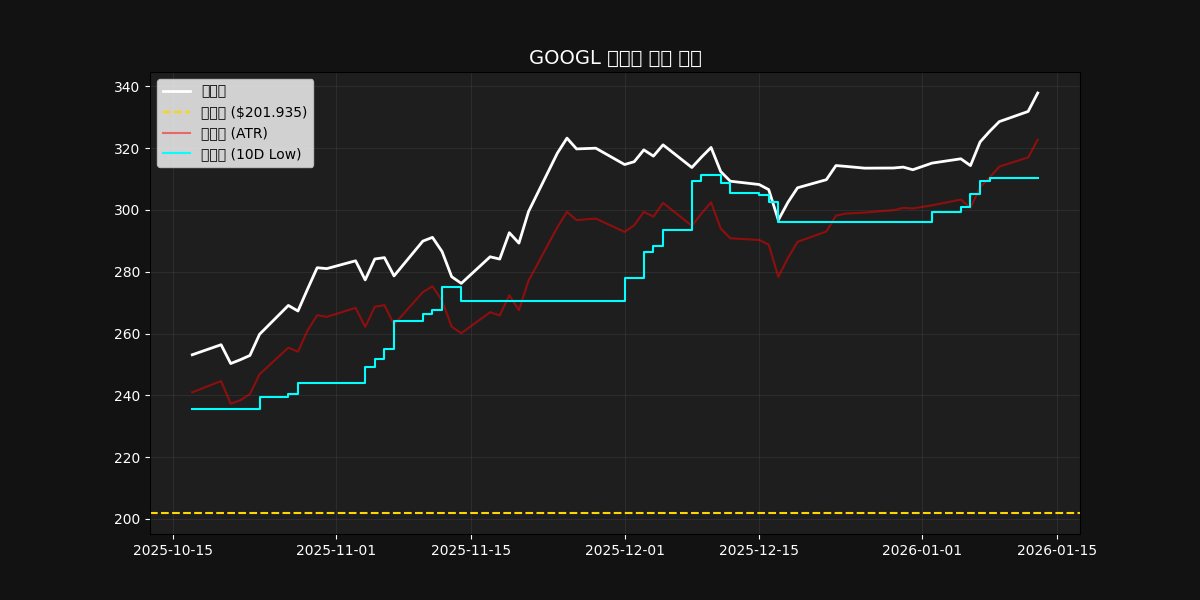
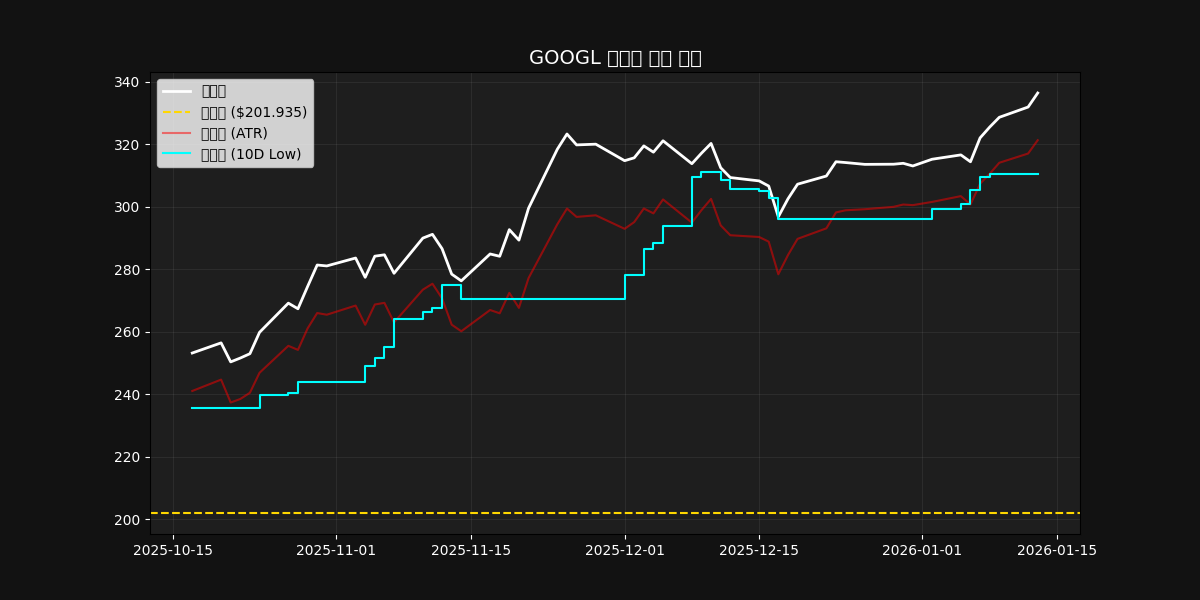
Report Update: 20260114

diff --git a/Reports/Report_20260114.html b/Reports/Report_20260114.html
@@ -8,12 +8,12 @@
         .chart-img{width:48%; margin:1%; border-radius:10px; border:2px solid #444; transition: transform 0.3s;}
         .chart-img:hover {transform: scale(1.02);}
         </style></head><body>
-        <h1>📊 기태님 개인 자산 관리 대시보드 (2026-01-14 00:20)</h1>
-        <div class="card"><h2>✅ [계좌 현황] 내 보유 종목</h2><table><tr><th>티커</th><th>매수가</th><th>현재가</th><th>수익률</th><th>손절가</th><th>익절가(10D)</th><th>상태</th></tr><tr><td><b>GOOGL</b></td><td>$201.94</td><td>$337.83</td><td style='color:#2ecc71'>+67.30%</td><td>$322.72</td><td>$310.33</td><td>보유(Keep)</td></tr><tr><td><b>IEX</b></td><td>$186.77</td><td>$186.88</td><td style='color:#2ecc71'>+0.06%</td><td>$180.24</td><td>$177.29</td><td>보유(Keep)</td></tr></table></div>
+        <h1>📊 기태님 개인 자산 관리 대시보드 (2026-01-14 00:25)</h1>
+        <div class="card"><h2>✅ [계좌 현황] 내 보유 종목</h2><table><tr><th>티커</th><th>매수가</th><th>현재가</th><th>수익률</th><th>손절가</th><th>익절가(10D)</th><th>상태</th></tr><tr><td><b>GOOGL</b></td><td>$201.94</td><td>$336.35</td><td style='color:#2ecc71'>+66.56%</td><td>$321.24</td><td>$310.33</td><td>보유(Keep)</td></tr><tr><td><b>IEX</b></td><td>$186.77</td><td>$186.75</td><td style='color:#ff4757'>-0.01%</td><td>$180.11</td><td>$177.29</td><td>보유(Keep)</td></tr></table></div>
         <div class="card"><h2>📈 [관리 차트] 수익 추적 및 익절 타이밍</h2>
             <div style="display:inline-block; width:100%; text-align:center;"><img src="../Charts/GOOGL_tracking.png" class="chart-img" style="width:90%;"></div><div style="display:inline-block; width:100%; text-align:center;"><img src="../Charts/IEX_tracking.png" class="chart-img" style="width:90%;"></div>
         </div>
-        <div class="card"><h2>🥇 [신규 추천] 오늘의 TOP 3</h2><table><tr><th>티커</th><th>점수</th><th>현재가</th><th>수량</th><th>상관성</th><th>3M수익</th></tr><tr><td>A</td><td>100</td><td>$146.91</td><td>23주</td><td>0.46</td><td>6.6%</td></tr><tr><td>ACGL</td><td>100</td><td>$92.59</td><td>50주</td><td>0.03</td><td>0.4%</td></tr><tr><td>ADM</td><td>100</td><td>$62.71</td><td>51주</td><td>0.45</td><td>2.2%</td></tr></table></div>
-        <div class="card"><h2>⚠ [분석 제외] 기존 보유 및 상관성 높은 종목</h2><table><tr><th>티커</th><th>점수</th><th>현재가</th><th>수량</th><th>상관성</th><th>3M수익</th></tr><tr><td>AAPL</td><td>100</td><td>$259.81</td><td>18주</td><td>0.81</td><td>5.0%</td></tr><tr><td>ABBV</td><td>100</td><td>$217.93</td><td>14주</td><td>0.77</td><td>-4.2%</td></tr><tr><td>ABNB</td><td>100</td><td>$136.93</td><td>26주</td><td>0.69</td><td>11.4%</td></tr><tr><td>ACN</td><td>100</td><td>$274.02</td><td>10주</td><td>0.76</td><td>12.2%</td></tr><tr><td>ADI</td><td>100</td><td>$297.96</td><td>11주</td><td>0.81</td><td>27.0%</td></tr></table></div>
+        <div class="card"><h2>🥇 [신규 추천] 오늘의 TOP 3</h2><table><tr><th>티커</th><th>점수</th><th>현재가</th><th>수량</th><th>상관성</th><th>3M수익</th></tr><tr><td>A</td><td>100</td><td>$146.86</td><td>23주</td><td>0.46</td><td>6.6%</td></tr><tr><td>ACGL</td><td>100</td><td>$92.70</td><td>50주</td><td>0.03</td><td>0.5%</td></tr><tr><td>ADM</td><td>100</td><td>$62.75</td><td>51주</td><td>0.45</td><td>2.3%</td></tr></table></div>
+        <div class="card"><h2>⚠ [분석 제외] 기존 보유 및 상관성 높은 종목</h2><table><tr><th>티커</th><th>점수</th><th>현재가</th><th>수량</th><th>상관성</th><th>3M수익</th></tr><tr><td>AAPL</td><td>100</td><td>$259.64</td><td>18주</td><td>0.81</td><td>4.9%</td></tr><tr><td>ABBV</td><td>100</td><td>$218.19</td><td>14주</td><td>0.77</td><td>-4.1%</td></tr><tr><td>ABNB</td><td>100</td><td>$136.99</td><td>26주</td><td>0.69</td><td>11.5%</td></tr><tr><td>ACN</td><td>100</td><td>$273.70</td><td>10주</td><td>0.76</td><td>12.1%</td></tr><tr><td>ADI</td><td>100</td><td>$298.29</td><td>11주</td><td>0.81</td><td>27.2%</td></tr></table></div>
         </body></html>
         

diff --git a/index.html b/index.html
@@ -8,12 +8,12 @@
         .chart-img{width:48%; margin:1%; border-radius:10px; border:2px solid #444; transition: transform 0.3s;}
         .chart-img:hover {transform: scale(1.02);}
         </style></head><body>
-        <h1>📊 기태님 개인 자산 관리 대시보드 (2026-01-14 00:20)</h1>
-        <div class="card"><h2>✅ [계좌 현황] 내 보유 종목</h2><table><tr><th>티커</th><th>매수가</th><th>현재가</th><th>수익률</th><th>손절가</th><th>익절가(10D)</th><th>상태</th></tr><tr><td><b>GOOGL</b></td><td>$201.94</td><td>$337.83</td><td style='color:#2ecc71'>+67.30%</td><td>$322.72</td><td>$310.33</td><td>보유(Keep)</td></tr><tr><td><b>IEX</b></td><td>$186.77</td><td>$186.88</td><td style='color:#2ecc71'>+0.06%</td><td>$180.24</td><td>$177.29</td><td>보유(Keep)</td></tr></table></div>
+        <h1>📊 기태님 개인 자산 관리 대시보드 (2026-01-14 00:25)</h1>
+        <div class="card"><h2>✅ [계좌 현황] 내 보유 종목</h2><table><tr><th>티커</th><th>매수가</th><th>현재가</th><th>수익률</th><th>손절가</th><th>익절가(10D)</th><th>상태</th></tr><tr><td><b>GOOGL</b></td><td>$201.94</td><td>$336.35</td><td style='color:#2ecc71'>+66.56%</td><td>$321.24</td><td>$310.33</td><td>보유(Keep)</td></tr><tr><td><b>IEX</b></td><td>$186.77</td><td>$186.75</td><td style='color:#ff4757'>-0.01%</td><td>$180.11</td><td>$177.29</td><td>보유(Keep)</td></tr></table></div>
         <div class="card"><h2>📈 [관리 차트] 수익 추적 및 익절 타이밍</h2>
             <div style="display:inline-block; width:100%; text-align:center;"><img src="../Charts/GOOGL_tracking.png" class="chart-img" style="width:90%;"></div><div style="display:inline-block; width:100%; text-align:center;"><img src="../Charts/IEX_tracking.png" class="chart-img" style="width:90%;"></div>
         </div>
-        <div class="card"><h2>🥇 [신규 추천] 오늘의 TOP 3</h2><table><tr><th>티커</th><th>점수</th><th>현재가</th><th>수량</th><th>상관성</th><th>3M수익</th></tr><tr><td>A</td><td>100</td><td>$146.91</td><td>23주</td><td>0.46</td><td>6.6%</td></tr><tr><td>ACGL</td><td>100</td><td>$92.59</td><td>50주</td><td>0.03</td><td>0.4%</td></tr><tr><td>ADM</td><td>100</td><td>$62.71</td><td>51주</td><td>0.45</td><td>2.2%</td></tr></table></div>
-        <div class="card"><h2>⚠ [분석 제외] 기존 보유 및 상관성 높은 종목</h2><table><tr><th>티커</th><th>점수</th><th>현재가</th><th>수량</th><th>상관성</th><th>3M수익</th></tr><tr><td>AAPL</td><td>100</td><td>$259.81</td><td>18주</td><td>0.81</td><td>5.0%</td></tr><tr><td>ABBV</td><td>100</td><td>$217.93</td><td>14주</td><td>0.77</td><td>-4.2%</td></tr><tr><td>ABNB</td><td>100</td><td>$136.93</td><td>26주</td><td>0.69</td><td>11.4%</td></tr><tr><td>ACN</td><td>100</td><td>$274.02</td><td>10주</td><td>0.76</td><td>12.2%</td></tr><tr><td>ADI</td><td>100</td><td>$297.96</td><td>11주</td><td>0.81</td><td>27.0%</td></tr></table></div>
+        <div class="card"><h2>🥇 [신규 추천] 오늘의 TOP 3</h2><table><tr><th>티커</th><th>점수</th><th>현재가</th><th>수량</th><th>상관성</th><th>3M수익</th></tr><tr><td>A</td><td>100</td><td>$146.86</td><td>23주</td><td>0.46</td><td>6.6%</td></tr><tr><td>ACGL</td><td>100</td><td>$92.70</td><td>50주</td><td>0.03</td><td>0.5%</td></tr><tr><td>ADM</td><td>100</td><td>$62.75</td><td>51주</td><td>0.45</td><td>2.3%</td></tr></table></div>
+        <div class="card"><h2>⚠ [분석 제외] 기존 보유 및 상관성 높은 종목</h2><table><tr><th>티커</th><th>점수</th><th>현재가</th><th>수량</th><th>상관성</th><th>3M수익</th></tr><tr><td>AAPL</td><td>100</td><td>$259.64</td><td>18주</td><td>0.81</td><td>4.9%</td></tr><tr><td>ABBV</td><td>100</td><td>$218.19</td><td>14주</td><td>0.77</td><td>-4.1%</td></tr><tr><td>ABNB</td><td>100</td><td>$136.99</td><td>26주</td><td>0.69</td><td>11.5%</td></tr><tr><td>ACN</td><td>100</td><td>$273.70</td><td>10주</td><td>0.76</td><td>12.1%</td></tr><tr><td>ADI</td><td>100</td><td>$298.29</td><td>11주</td><td>0.81</td><td>27.2%</td></tr></table></div>
         </body></html>
         
